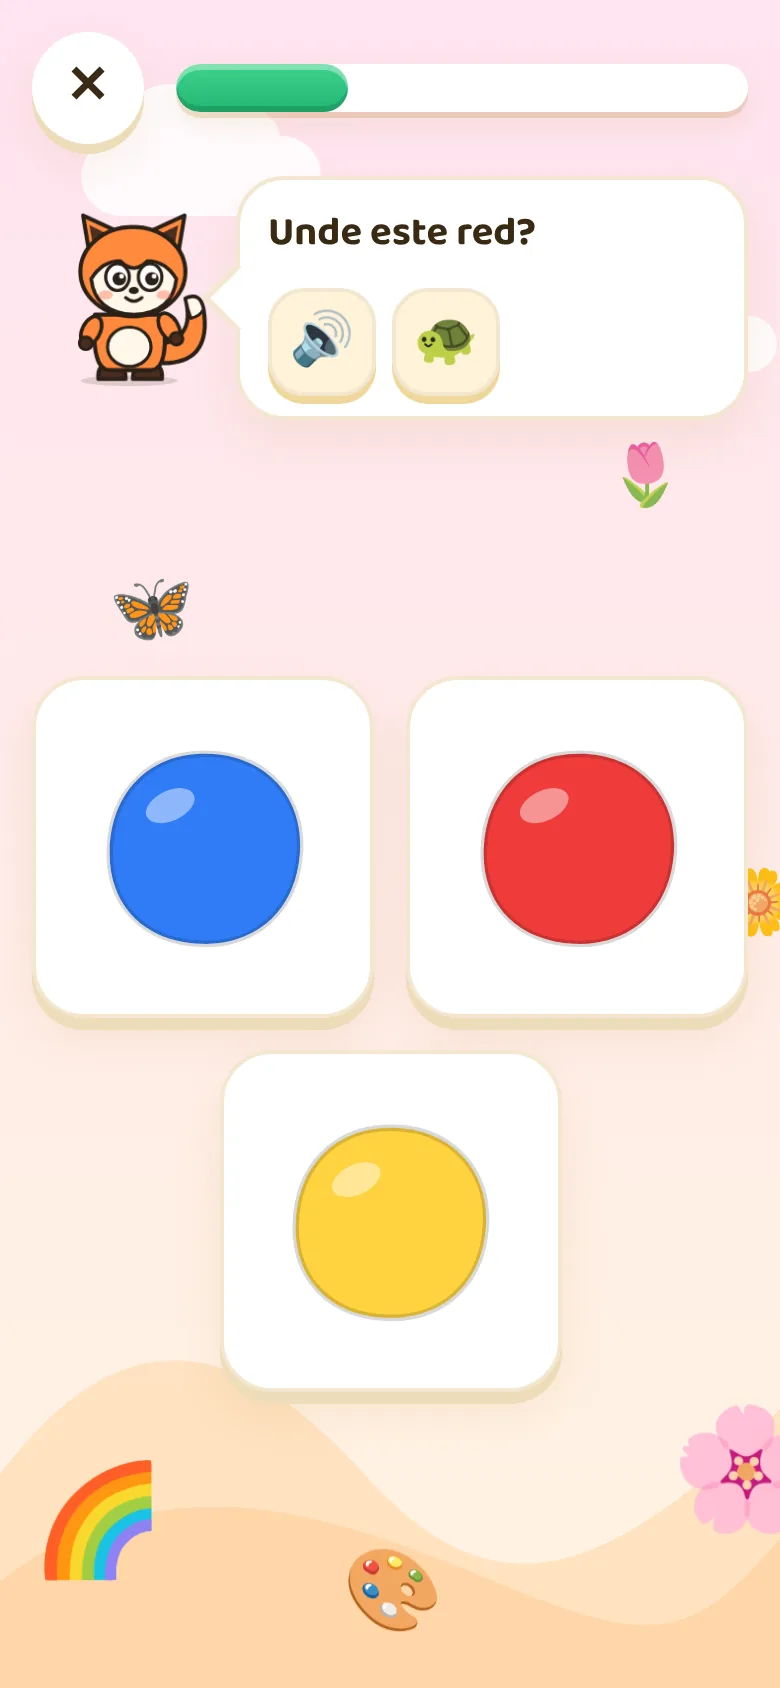
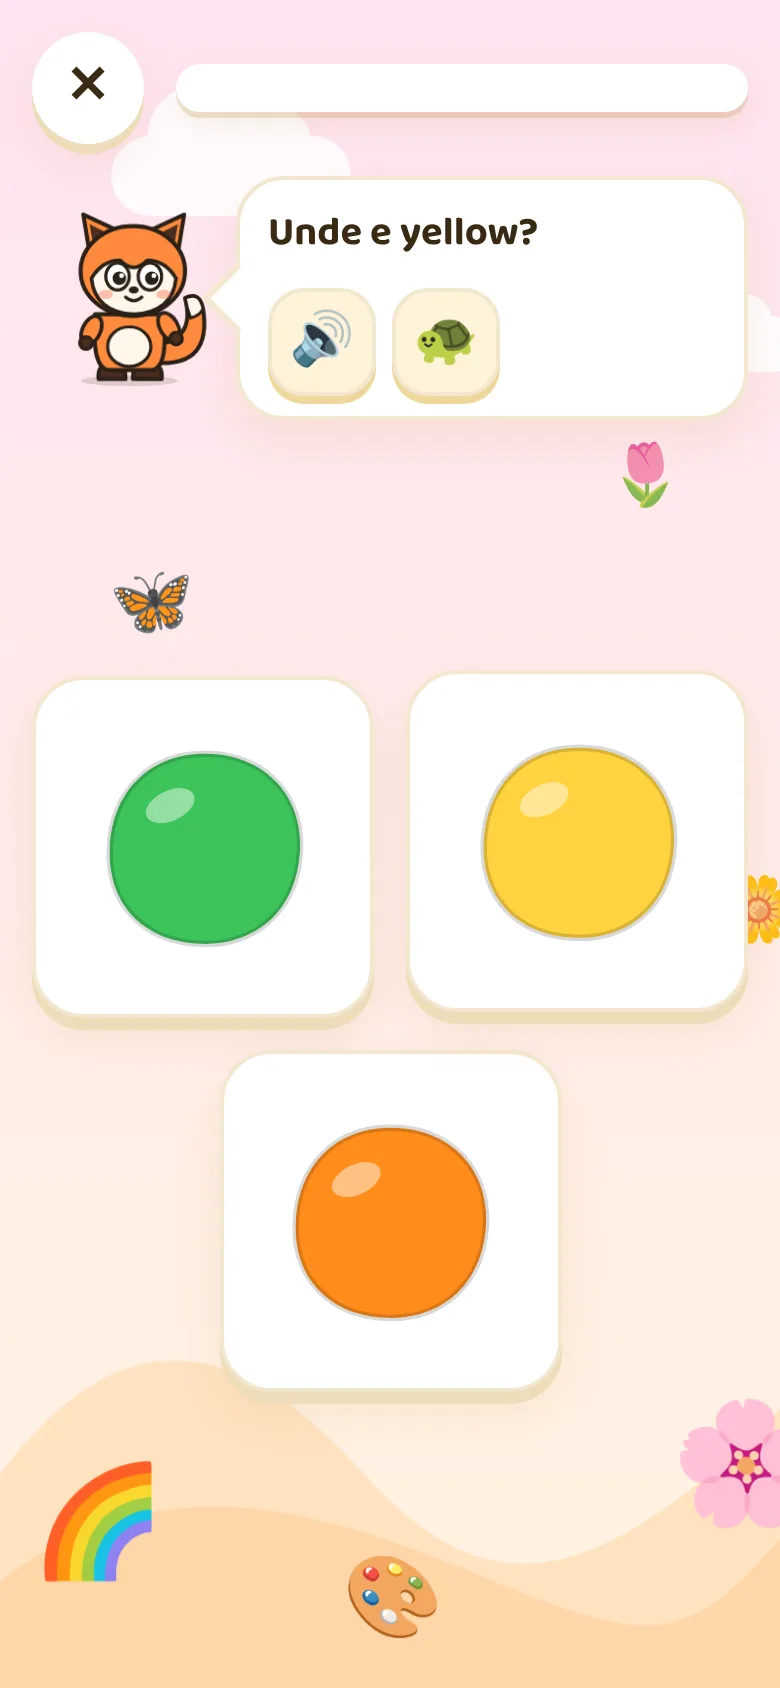
Homepage: fresh screenshots of the current app, map row shows a new world
Claude-Session: https://claude.ai/code/session_016fNXyzWewSHgwyjXUACqWW

diff --git a/site/index.html b/site/index.html
@@ -97,28 +97,28 @@
       <!-- ROWS: one screen + a short story each -->
       <section class="rows" id="joaca">
         <div class="wrap row">
-          <figure class="shot"><img src="./img/asculta.webp" alt="Exercițiul „Unde este red?”, cu bile colorate de atins" loading="lazy" width="390" height="844" /></figure>
+          <figure class="shot"><img src="./img/asculta.webp?v=2" alt="Exercițiul „Unde e yellow?”, cu bile colorate de atins" loading="lazy" width="390" height="844" /></figure>
           <div class="row-copy">
             <h2>Învață prin joacă</h2>
             <p>Cuvântul se aude clar, cu accent american, normal sau rar 🐢. Copilul atinge poza potrivită, sparge baloane și nu aude niciodată „greșit”.</p>
           </div>
         </div>
         <div class="wrap row row-flip">
-          <figure class="shot"><img src="./img/spune.webp" alt="Cuvântul „red” cu butonul de microfon" loading="lazy" width="390" height="844" /></figure>
+          <figure class="shot"><img src="./img/spune.webp?v=2" alt="Cuvântul „red” cu butonul de microfon" loading="lazy" width="390" height="844" /></figure>
           <div class="row-copy">
             <h2>Spune tu, cu voce tare</h2>
             <p>Apasă 🎤, spune cuvântul și își aude imediat vocea. Prietenul lui se bucură de fiecare încercare.</p>
           </div>
         </div>
         <div class="wrap row">
-          <figure class="shot"><img src="./img/harta.webp" alt="Harta temei Culori, cu drum, pod și lecții numerotate" loading="lazy" width="390" height="844" /></figure>
+          <figure class="shot"><img src="./img/harta.webp?v=2" alt="Lumea Marea pe hartă: plajă cu palmieri, drum, pod și lecții numerotate" loading="lazy" width="390" height="844" /></figure>
           <div class="row-copy">
             <h2>O hartă cu 20 de lumi</h2>
             <p>Culori, animale, numere, familia, mâncare, haine, corpul, vremea, casa, jucării, transport, școala, natura, marea, jungla, gâzele, grădina, emoțiile, mișcarea și meseriile. Fiecare lume e desenată altfel și se termină cu un boss prietenos care verifică tot ce a învățat.</p>
           </div>
         </div>
         <div class="wrap row row-flip">
-          <figure class="shot"><img src="./img/propozitii.webp" alt="Jocurile de propoziții: Îmi place, Mare și mic, Ce culoare are?, Câte vezi?" loading="lazy" width="390" height="844" /></figure>
+          <figure class="shot"><img src="./img/propozitii.webp?v=2" alt="Jocurile de propoziții: Îmi place, Mare și mic, Ce culoare are?, Câte vezi?" loading="lazy" width="390" height="844" /></figure>
           <div class="row-copy">
             <h2>Apoi, primele propoziții</h2>
             <p>„I like apples.” „The cat is big.” Cuvintele învățate se leagă în propoziții scurte, tot prin joacă.</p>
@@ -163,7 +163,7 @@
               <li><b>Se instalează ca o aplicație.</b> Pe telefon, „Adaugă pe ecranul principal”.</li>
             </ul>
           </div>
-          <figure class="shot shot-tall"><img src="./img/acasa.webp" alt="Ecranul de început din Tudoo!, cu Vulpița Pip" loading="lazy" width="390" height="844" /></figure>
+          <figure class="shot shot-tall"><img src="./img/acasa.webp?v=2" alt="Ecranul de început din Tudoo!, cu Vulpița Pip" loading="lazy" width="390" height="844" /></figure>
         </div>
       </section>
 
@@ -182,7 +182,7 @@
             <p>Pregătim variante pentru cabinete și grădinițe. Dacă vreți să le încercați printre primii, ne puteți scrie de îndată ce publicăm datele de contact.</p>
           </div>
           <div class="mission-art">
-            <figure class="shot"><img src="./img/sunete.webp" alt="Ecranul „Sunetele vesele”, cu jocurile pentru R și L" loading="lazy" width="390" height="844" /></figure>
+            <figure class="shot"><img src="./img/sunete.webp?v=2" alt="Ecranul „Sunetele vesele”, cu jocurile pentru R și L" loading="lazy" width="390" height="844" /></figure>
             <span class="mission-rici" data-mascot="rici" data-size="150" data-mood="happy"></span>
           </div>
         </div>
